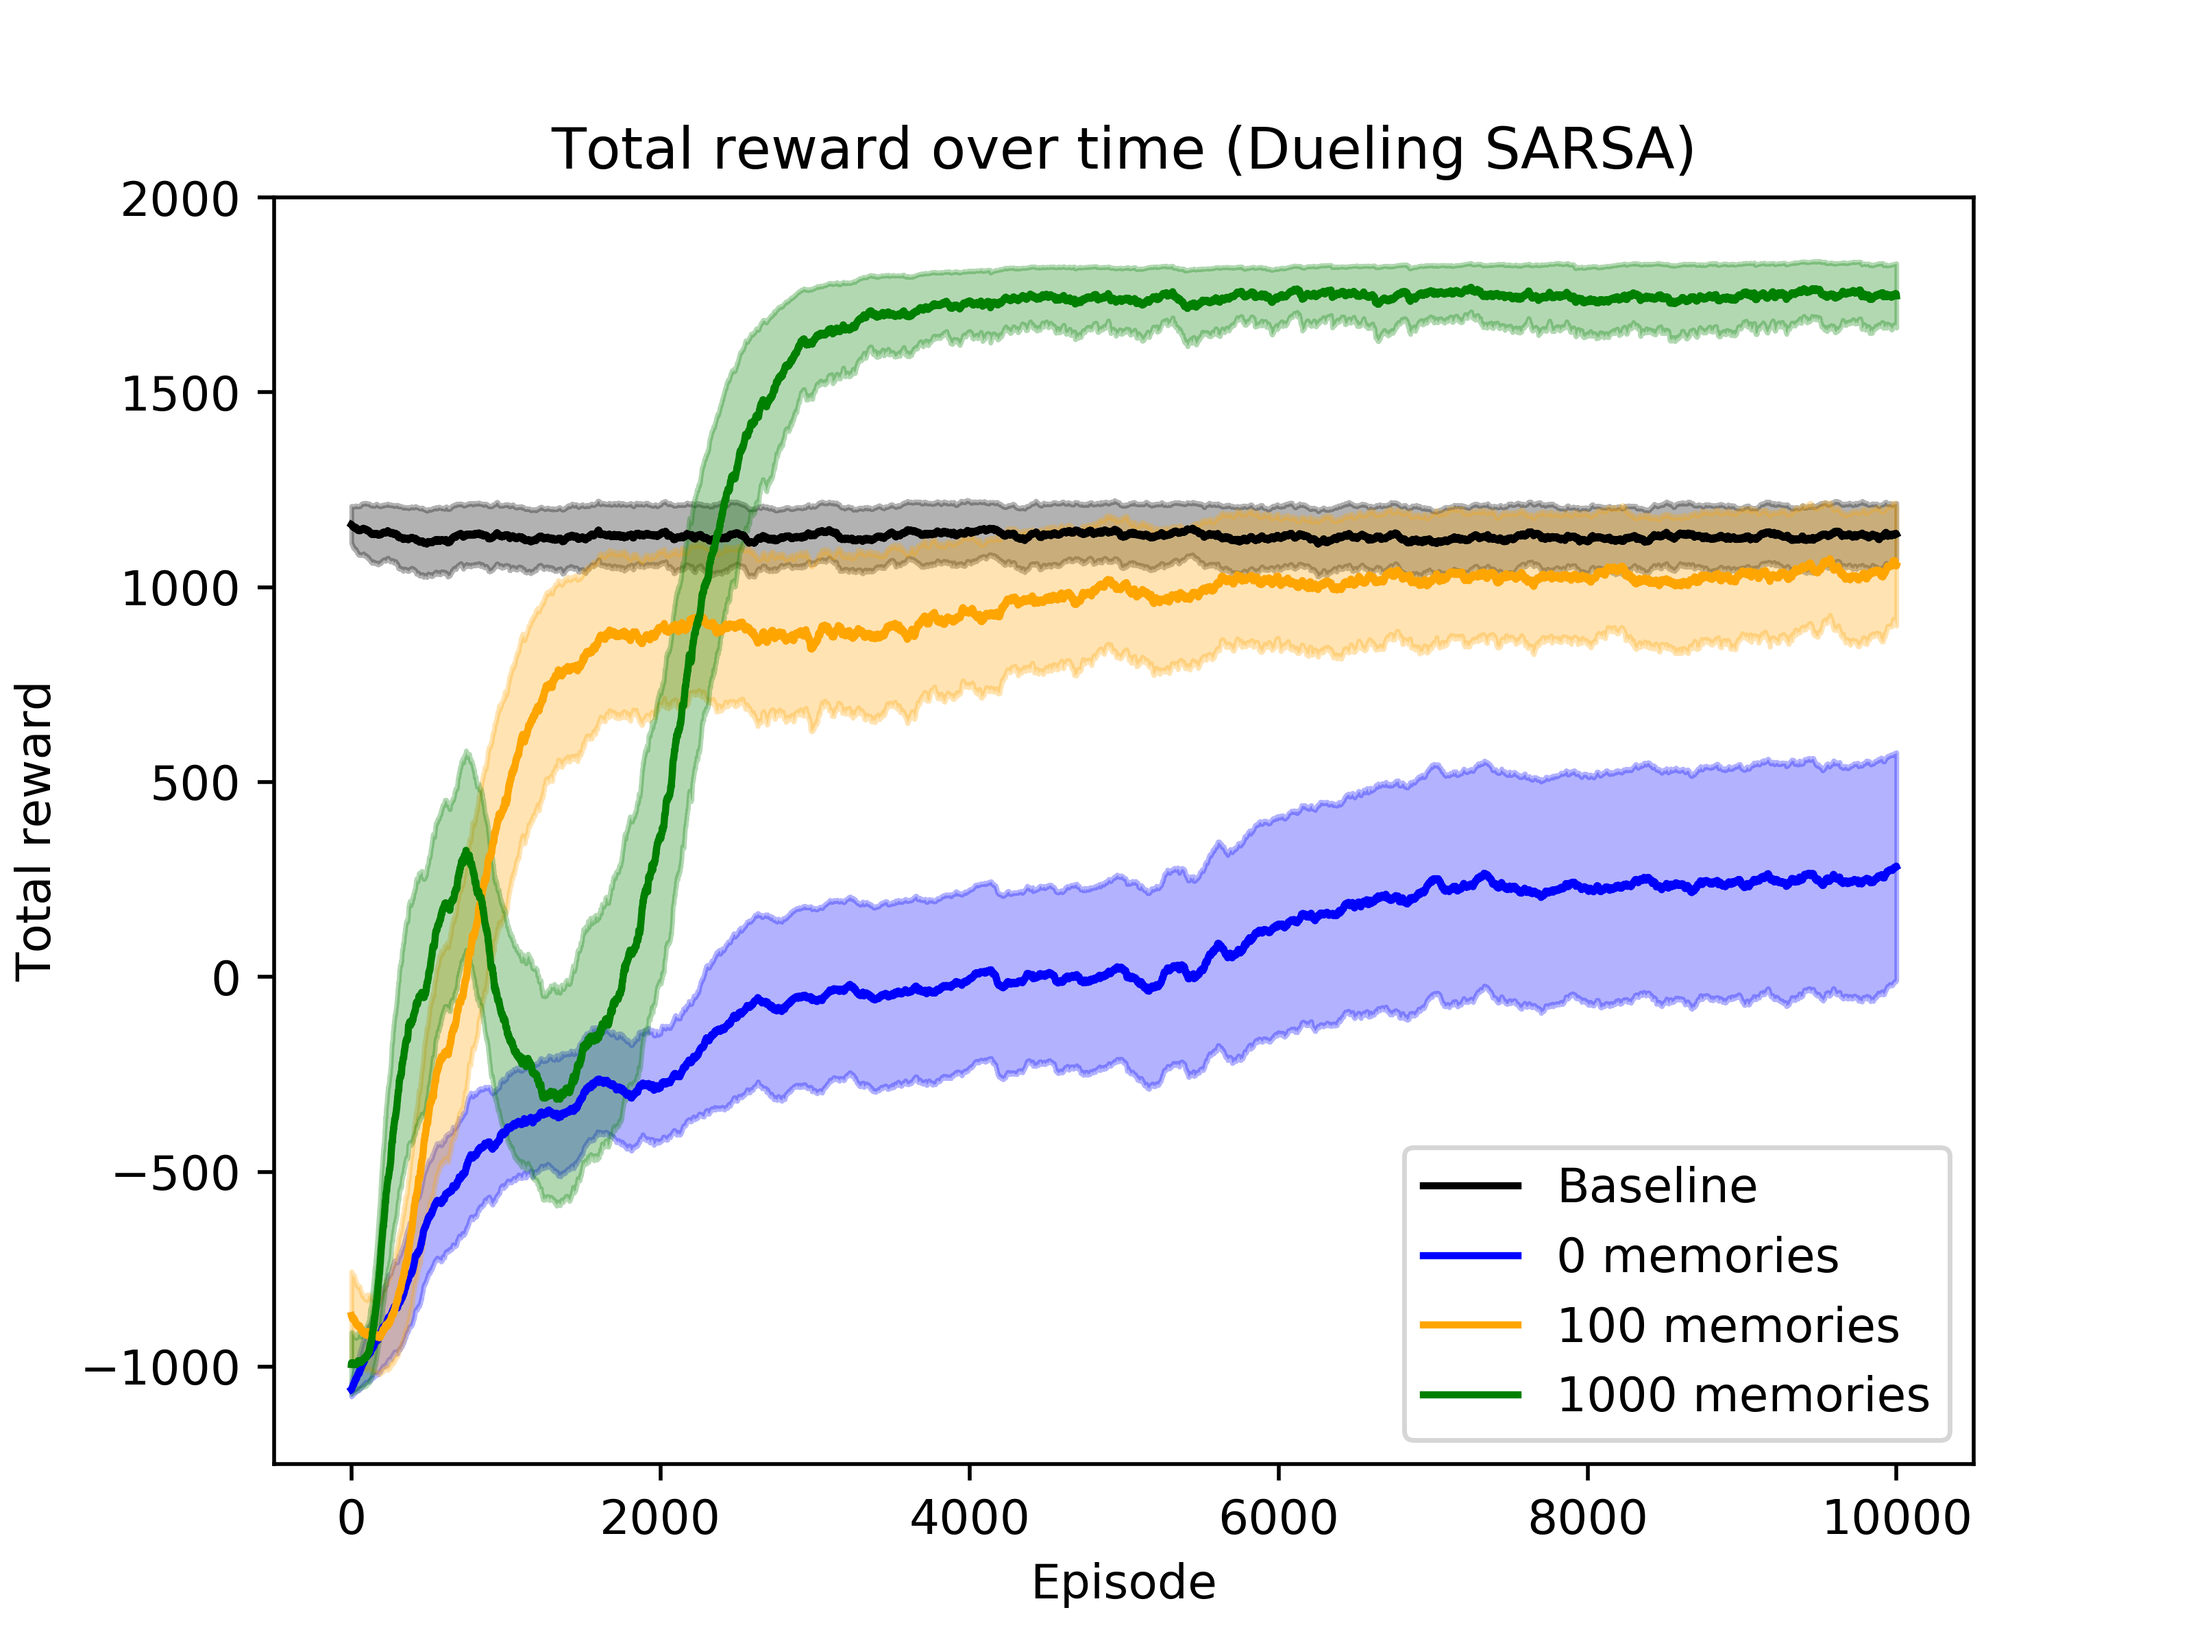
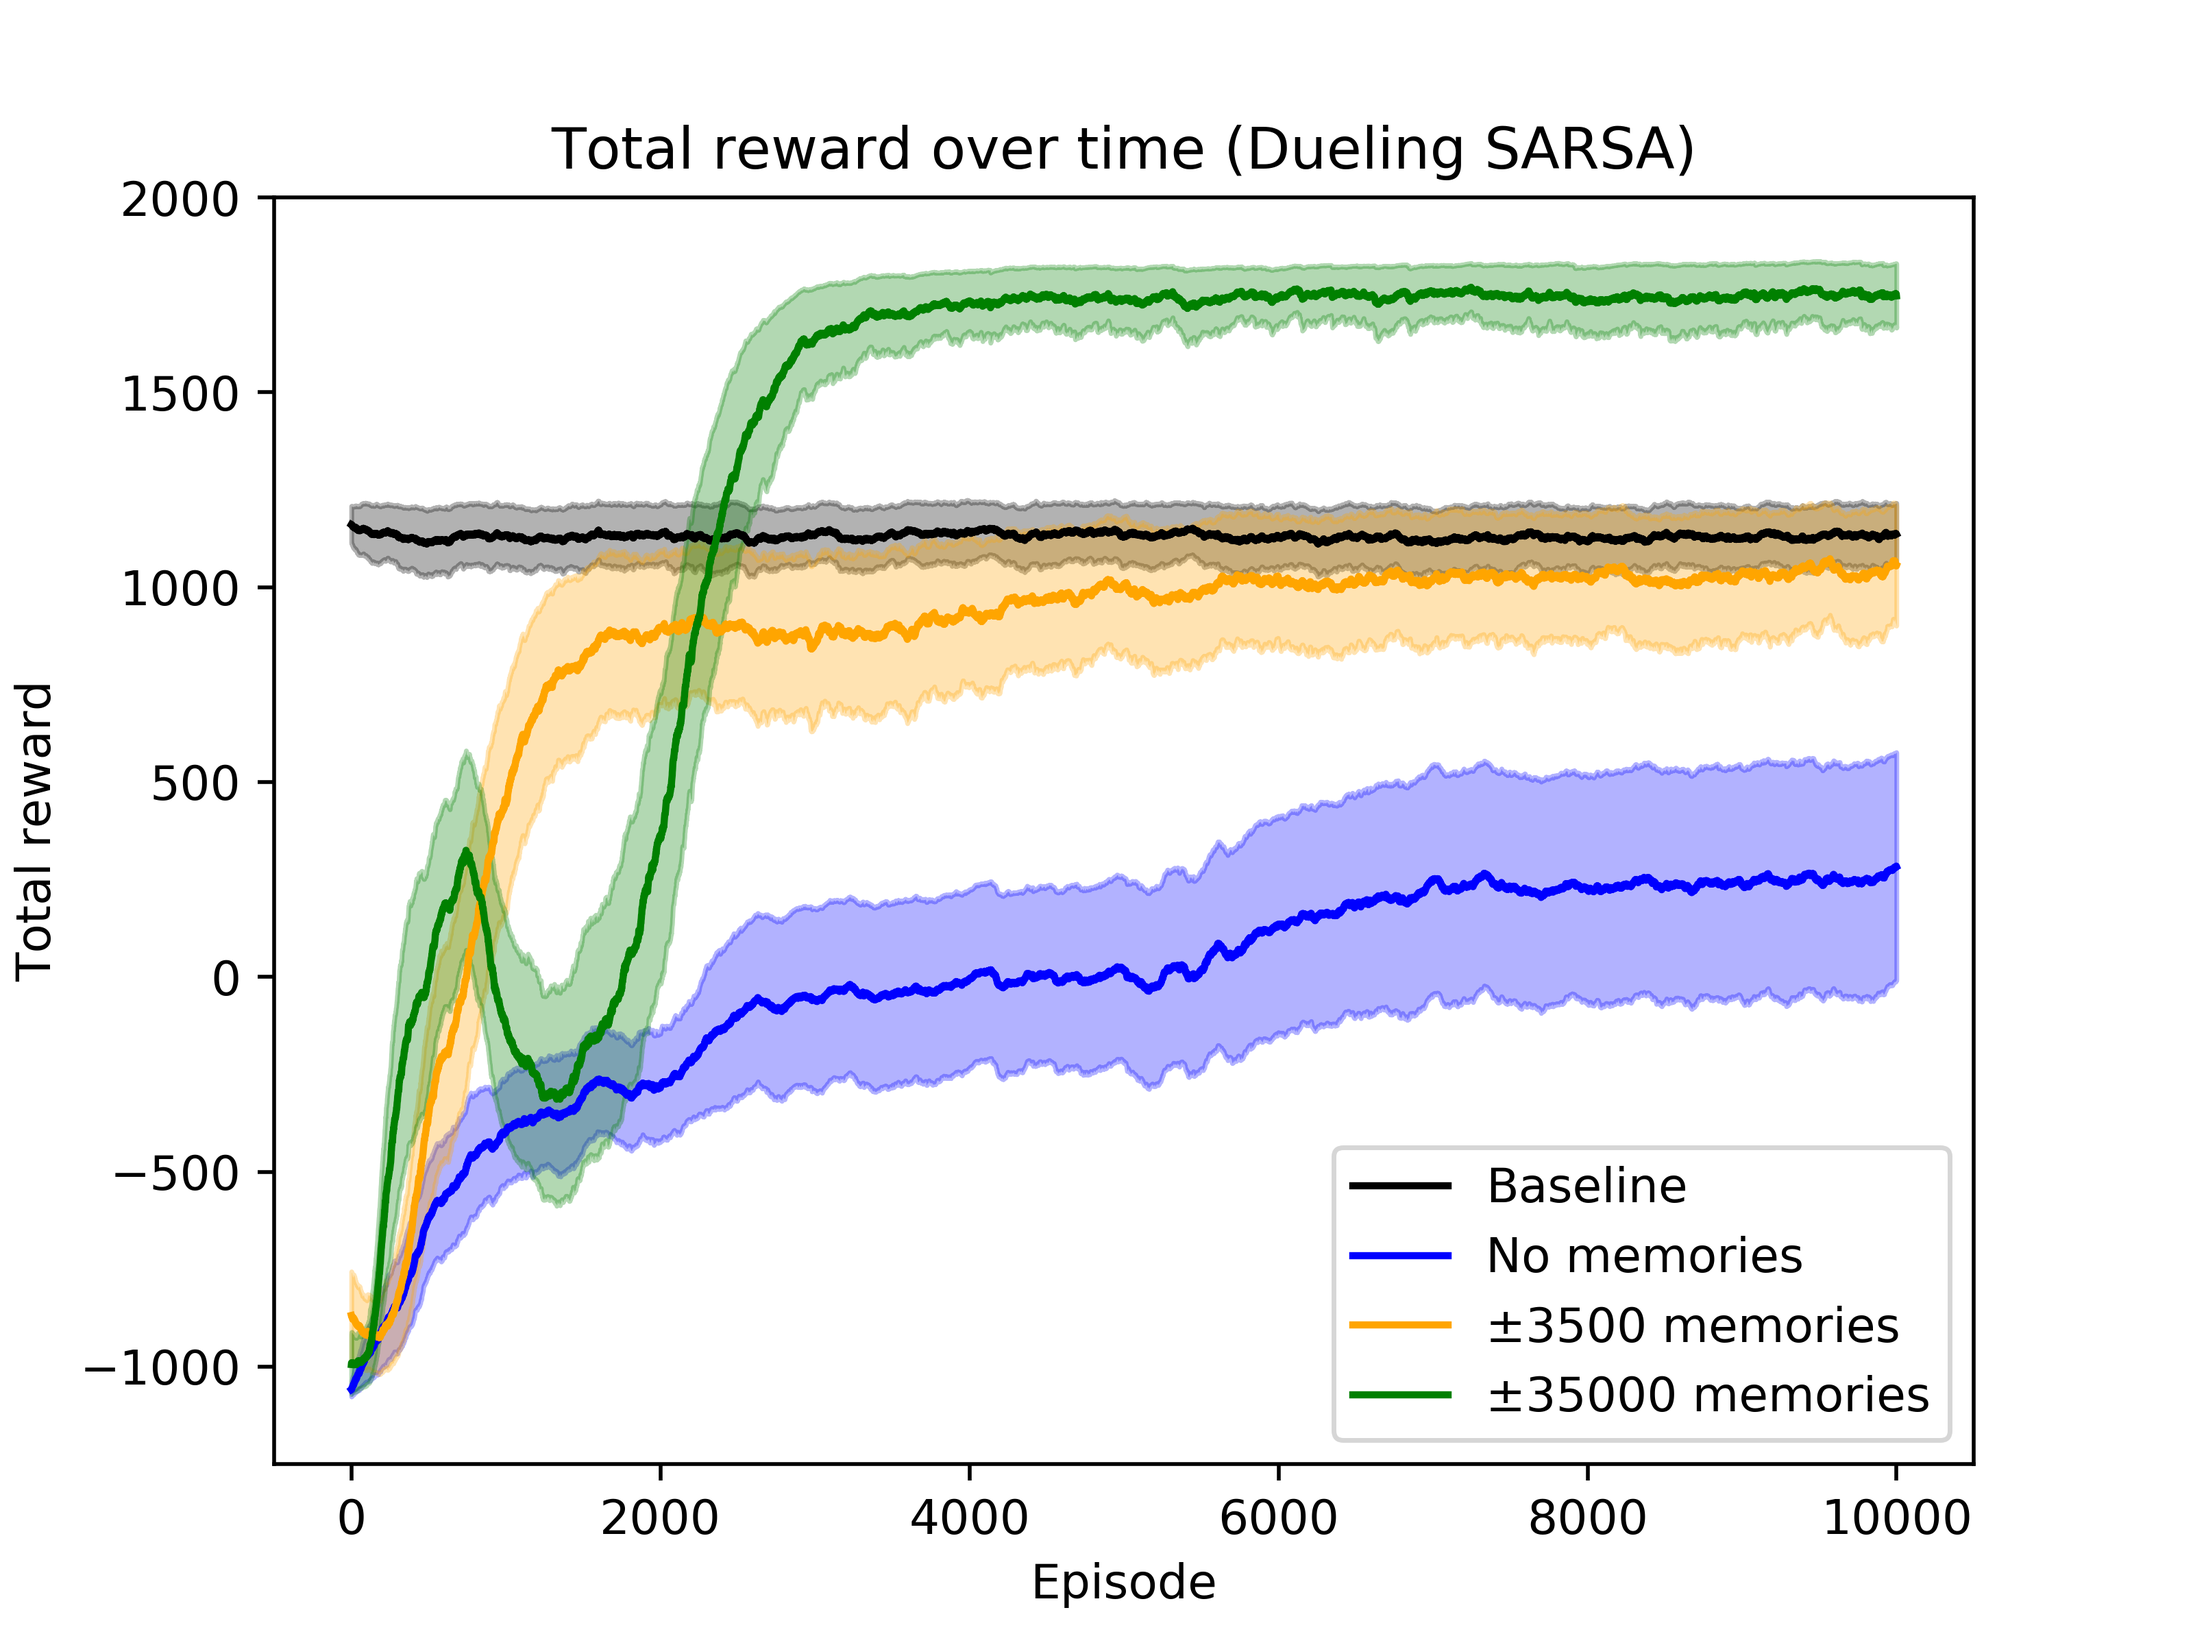
Decluttered analyze.py hardcoded and made 3500/35000 mem plots

Changed region(s): [[0.5938, 0.6875, 0.8438, 0.875]]

diff --git a/analyze.py b/analyze.py
@@ -245,14 +245,14 @@ def main():
             if "Baseline" in filename:
                 baseline_files.append(filename)
                 continue
-            if "DDQN" in filename and len(filename) == (27+0):
-                first_files.append(filename)
-                continue
             if "DQN" in filename and len(filename) == (26+0) \
                 and not "DDQN" in filename:
-                second_files.append(filename)
+                first_files.append(filename)
                 continue
             if "SARSA" in filename and len(filename) == (28+0):
+                second_files.append(filename)
+                continue
+            if "DDQN" in filename and len(filename) == (27+0):
                 third_files.append(filename)
                 continue
             if "BOTH" in filename and len(filename) == (27+0):
@@ -320,11 +320,11 @@ def main():
 
         # Start the plot
         folder_name = "HARDCODED"
-        plot_start("Total reward over time (0 memories)", "Total reward", "Episode")
+        plot_start("Total reward over time (no memories)", "Total reward", "Episode")
         baseline_clr, first_clr, second_clr, third_clr, fourth_clr = \
             ["black", "blue", "orange", "green", "crimson"]
         area_alpha = 0.3
-        Baseline, Dueling, QNetwork, SARSA, Both = (1, 1, 1, 1, 1)
+        Baseline, First, Second, Third, Fourth = (1, 1, 1, 1, 1)
         # Populate the plot
         if Baseline:
             plt.plot(calc_smooth(baseline_avg), label="Baseline", color=baseline_clr)
@@ -332,25 +332,25 @@ def main():
                 calc_smooth(np.add(baseline_avg, baseline_std)), \
                 calc_smooth(np.add(baseline_avg, -baseline_std)), \
                 alpha=area_alpha, color=baseline_clr)
-        if QNetwork:
-            plt.plot(calc_smooth(second_avg), label="Q-Network", color=first_clr)
-            plt.fill_between(range(len(second_avg)), \
-                calc_smooth(np.add(second_avg, second_std)), \
-                calc_smooth(np.add(second_avg, -second_std)), \
-                alpha=area_alpha, color=first_clr)
-        if SARSA:
-            plt.plot(calc_smooth(third_avg), label="SARSA", color=second_clr)
-            plt.fill_between(range(len(third_avg)), \
-                calc_smooth(np.add(third_avg, third_std)), \
-                calc_smooth(np.add(third_avg, -third_std)), \
-                alpha=area_alpha, color=second_clr)
-        if Dueling:
-            plt.plot(calc_smooth(first_avg), label="Dueling Q-Net", color=third_clr)
+        if First:
+            plt.plot(calc_smooth(first_avg), label="Q-Network", color=first_clr)
             plt.fill_between(range(len(first_avg)), \
                 calc_smooth(np.add(first_avg, first_std)), \
                 calc_smooth(np.add(first_avg, -first_std)), \
+                alpha=area_alpha, color=first_clr)
+        if Second:
+            plt.plot(calc_smooth(second_avg), label="SARSA", color=second_clr)
+            plt.fill_between(range(len(second_avg)), \
+                calc_smooth(np.add(second_avg, second_std)), \
+                calc_smooth(np.add(second_avg, -second_std)), \
+                alpha=area_alpha, color=second_clr)
+        if Third:
+            plt.plot(calc_smooth(third_avg), label="Dueling Q-Net", color=third_clr)
+            plt.fill_between(range(len(third_avg)), \
+                calc_smooth(np.add(third_avg, third_std)), \
+                calc_smooth(np.add(third_avg, -third_std)), \
                 alpha=area_alpha, color=third_clr)
-        if Both:
+        if Fourth:
             plt.plot(calc_smooth(fourth_avg), label="Dueling SARSA", color=fourth_clr)
             plt.fill_between(range(len(fourth_avg)), \
                 calc_smooth(np.add(fourth_avg, fourth_std)), \
